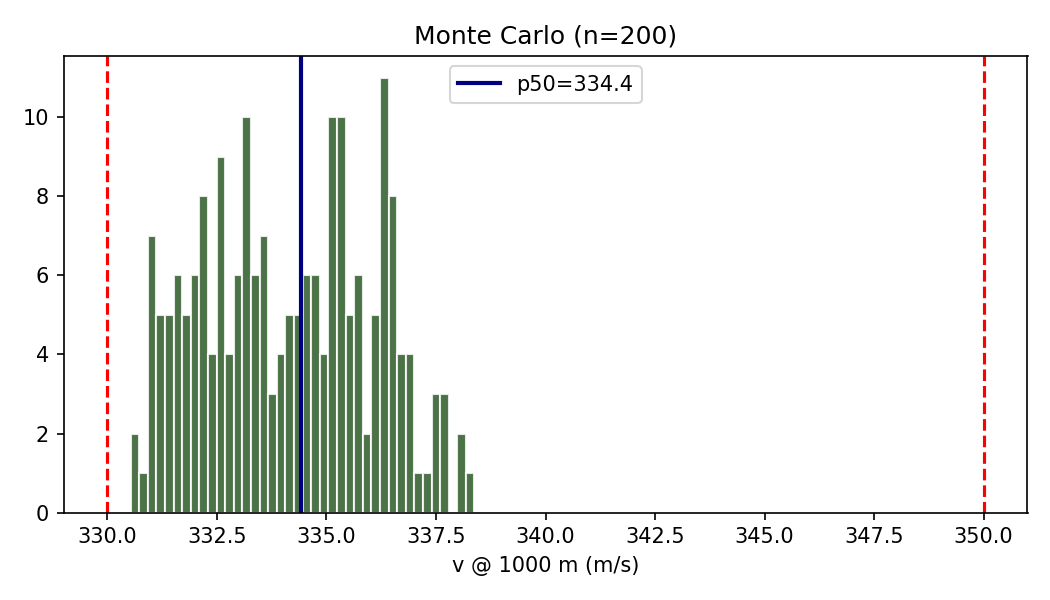
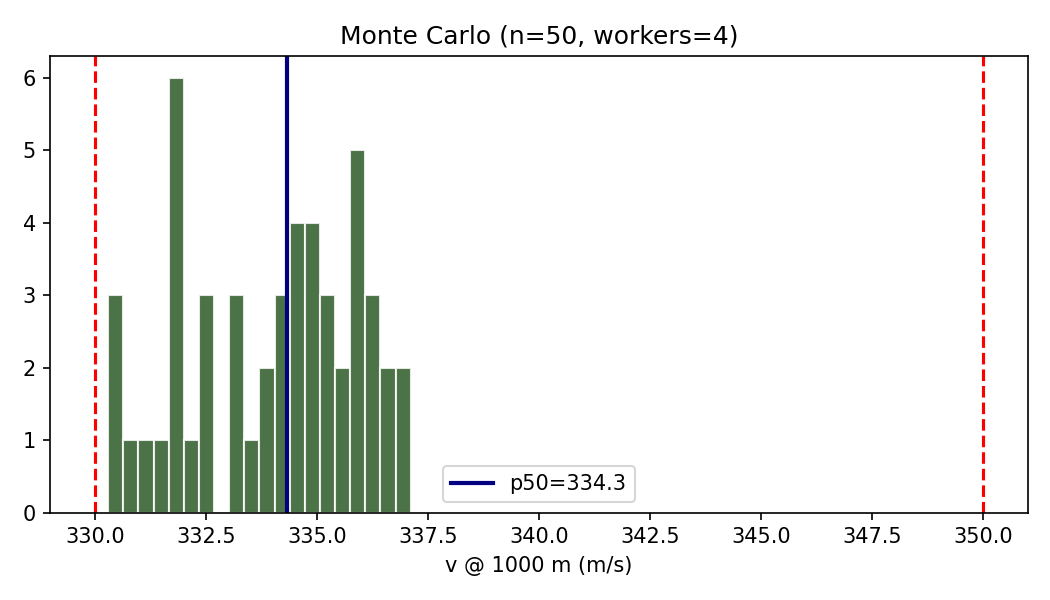
Add RunPod 25k Monte Carlo results and max-CPU tooling.
Parallel MC with 32 workers, runpod_max_cpu.sh, and authoritative monte_carlo_25000.json from the pod run (99.76% in 330-350 m/s band).

diff --git a/scripts/monte_carlo_envelope.py b/scripts/monte_carlo_envelope.py
@@ -1,15 +1,18 @@
 #!/usr/bin/env python3
 """
-Lightweight Monte Carlo on radr_performance_model (CPU).
+Monte Carlo on radr_performance_model (CPU).
 
-Default n=200 for laptop-friendly runs; use n=5000+ on RunPod.
+Use --workers to saturate RunPod vCPUs (set OMP_NUM_THREADS=1 per process).
 """
 
 from __future__ import annotations
 
 import argparse
 import json
+import os
 import sys
+import time
+from concurrent.futures import ProcessPoolExecutor
 from pathlib import Path
 
 import numpy as np
@@ -17,44 +20,38 @@ import numpy as np
 ROOT = Path(__file__).resolve().parents[1]
 sys.path.insert(0, str(ROOT / "scripts"))
 
-from radr_performance_model import (  # noqa: E402
-    CDA_COAST_M2,
-    ModelConfig,
-    simulate,
-)
-
-DEFAULT_RANGES = [1000.0]
+from radr_performance_model import CDA_COAST_M2, ModelConfig, simulate  # noqa: E402
 
 
-def run_mc(
+def _mc_worker(args: tuple[int, int, float]) -> tuple[float, float]:
+    i, seed, target_m = args
+    rng = np.random.default_rng(seed + i)
+    cfg = ModelConfig(
+        mass_kg=float(rng.uniform(2.95, 3.35)),
+        loft_deg=float(rng.uniform(2.5, 5.0)),
+        thrust_scale=float(rng.uniform(2950 / 3000, 3050 / 3000)),
+        cda_coast_m2=float(CDA_COAST_M2 * rng.uniform(0.9, 1.1)),
+    )
+    pt = simulate(cfg, [target_m]).ranges[str(int(target_m))]
+    return pt.v_mps, pt.tof_s
+
+
+def _summarize(
     n: int,
     seed: int,
-    target_m: float = 1000.0,
+    target_m: float,
+    v_samples: np.ndarray,
+    tof_samples: np.ndarray,
+    workers: int,
+    elapsed_s: float,
 ) -> dict:
-    rng = np.random.default_rng(seed)
-    v_samples = np.empty(n)
-    tof_samples = np.empty(n)
-
-    for i in range(n):
-        mass = rng.uniform(2.95, 3.35)
-        impulse_scale = rng.uniform(2950 / 3000, 3050 / 3000)
-        loft = rng.uniform(2.5, 5.0)
-        cda_coast = CDA_COAST_M2 * rng.uniform(0.9, 1.1)
-        cfg = ModelConfig(
-            mass_kg=mass,
-            loft_deg=loft,
-            thrust_scale=impulse_scale,
-            cda_coast_m2=cda_coast,
-        )
-        pt = simulate(cfg, [target_m]).ranges[str(int(target_m))]
-        v_samples[i] = pt.v_mps
-        tof_samples[i] = pt.tof_s
-
     in_band = (v_samples >= 330) & (v_samples <= 350)
     return {
         "n": n,
         "seed": seed,
         "target_m": target_m,
+        "workers": workers,
+        "elapsed_s": round(elapsed_s, 2),
         "v_mps": {
             "p5": float(np.percentile(v_samples, 5)),
             "p50": float(np.percentile(v_samples, 50)),
@@ -71,20 +68,68 @@ def run_mc(
     }
 
 
+def run_mc(
+    n: int,
+    seed: int,
+    target_m: float = 1000.0,
+    workers: int = 1,
+    return_samples: bool = False,
+) -> dict | tuple[dict, np.ndarray]:
+    workers = max(1, workers)
+    t0 = time.perf_counter()
+
+    if workers == 1:
+        v_list: list[float] = []
+        t_list: list[float] = []
+        for i in range(n):
+            v, t = _mc_worker((i, seed, target_m))
+            v_list.append(v)
+            t_list.append(t)
+        v_samples = np.array(v_list)
+        tof_samples = np.array(t_list)
+    else:
+        tasks = [(i, seed, target_m) for i in range(n)]
+        chunk = max(1, n // (workers * 8))
+        with ProcessPoolExecutor(max_workers=workers) as pool:
+            results = list(pool.map(_mc_worker, tasks, chunksize=chunk))
+        v_samples = np.array([r[0] for r in results])
+        tof_samples = np.array([r[1] for r in results])
+
+    elapsed = time.perf_counter() - t0
+    report = _summarize(n, seed, target_m, v_samples, tof_samples, workers, elapsed)
+    if return_samples:
+        return report, v_samples
+    return report
+
+
+def default_workers() -> int:
+    return min(32, os.cpu_count() or 4)
+
+
 def main() -> int:
     p = argparse.ArgumentParser()
-    p.add_argument("-n", type=int, default=200, help="samples (use 5000+ on RunPod)")
+    p.add_argument("-n", type=int, default=200, help="Monte Carlo samples")
+    p.add_argument("--workers", type=int, default=0, help="0 = auto (min(32, cpu_count))")
     p.add_argument("--seed", type=int, default=42)
     p.add_argument("--json-out", type=Path)
     p.add_argument("--range-m", type=float, default=1000.0)
+    p.add_argument(
+        "--runpod-max",
+        action="store_true",
+        help="Preset: n=25000, workers=32 (override with -n/--workers)",
+    )
     args = p.parse_args()
 
-    if args.n > 800 and args.n <= 2000:
-        print(f"Running n={args.n} — moderate CPU load.", file=sys.stderr)
-    elif args.n > 2000:
-        print(f"Running n={args.n} — prefer RunPod for large n.", file=sys.stderr)
+    n = 25000 if args.runpod_max and args.n == 200 else args.n
+    workers = 32 if args.runpod_max and args.workers == 0 else args.workers
+    if workers <= 0:
+        workers = default_workers()
 
-    report = run_mc(args.n, args.seed, args.range_m)
+    print(
+        f"MC n={n} workers={workers} (set OMP_NUM_THREADS=1 on RunPod)",
+        file=sys.stderr,
+    )
+    report = run_mc(n, args.seed, args.range_m, workers=workers)
     print(json.dumps(report, indent=2))
     if args.json_out:
         args.json_out.write_text(json.dumps(report, indent=2), encoding="utf-8")

diff --git a/scripts/run_light_dashboard.py b/scripts/run_light_dashboard.py
@@ -1,9 +1,11 @@
 #!/usr/bin/env python3
-"""Laptop-light dashboard: regenerate JSON, MC n=200, export PNGs (no Jupyter UI)."""
+"""Dashboard: JSON + plots + Monte Carlo. Laptop: --n-mc 200. RunPod: --runpod-max."""
 
 from __future__ import annotations
 
+import argparse
 import json
+import os
 import subprocess
 import sys
 from pathlib import Path
@@ -18,17 +20,28 @@ ROOT = Path(__file__).resolve().parents[1]
 SCRIPTS = ROOT / "scripts"
 DATA = ROOT / "data"
 OUT = ROOT / "notebooks" / "output"
-N_MC = 200
 
 sys.path.insert(0, str(SCRIPTS))
-from monte_carlo_envelope import run_mc  # noqa: E402
-from radr_performance_model import CDA_COAST_M2, ModelConfig, simulate  # noqa: E402
+from monte_carlo_envelope import default_workers, run_mc  # noqa: E402
 
 
 def main() -> int:
+    p = argparse.ArgumentParser()
+    p.add_argument("--n-mc", type=int, default=200)
+    p.add_argument("--workers", type=int, default=0, help="0 = auto")
+    p.add_argument("--runpod-max", action="store_true", help="n=25000, workers=32")
+    args = p.parse_args()
+
+    n_mc = 25000 if args.runpod_max else args.n_mc
+    workers = 32 if args.runpod_max else (args.workers or default_workers())
+
+    for var in ("OMP_NUM_THREADS", "MKL_NUM_THREADS", "OPENBLAS_NUM_THREADS", "NUMEXPR_NUM_THREADS"):
+        os.environ.setdefault(var, "1")
+
     OUT.mkdir(parents=True, exist_ok=True)
     py = sys.executable
 
+    print(f"Run: n_mc={n_mc} workers={workers}")
     print("1/4 Performance model verify + JSON...")
     subprocess.run([py, str(SCRIPTS / "radr_performance_model.py"), "--verify"], cwd=ROOT, check=True)
     subprocess.run(
@@ -92,29 +105,18 @@ def main() -> int:
     fig.savefig(p3, dpi=150)
     plt.close(fig)
 
-    print(f"4/4 Monte Carlo n={N_MC}...")
-    mc = run_mc(N_MC, seed=42, target_m=1000.0)
-    (DATA / "monte_carlo_200.json").write_text(json.dumps(mc, indent=2), encoding="utf-8")
-
-    rng = np.random.default_rng(42)
-    v_samples = []
-    for _ in range(N_MC):
-        cfg = ModelConfig(
-            mass_kg=rng.uniform(2.95, 3.35),
-            loft_deg=rng.uniform(2.5, 5.0),
-            thrust_scale=rng.uniform(2950 / 3000, 3050 / 3000),
-            cda_coast_m2=CDA_COAST_M2 * rng.uniform(0.9, 1.1),
-        )
-        v_samples.append(simulate(cfg, [1000.0]).ranges["1000"].v_mps)
-    v_samples = np.array(v_samples)
+    print(f"4/4 Monte Carlo n={n_mc} workers={workers}...")
+    mc, v_samples = run_mc(n_mc, seed=42, target_m=1000.0, workers=workers, return_samples=True)
+    mc_path = DATA / f"monte_carlo_{n_mc}.json"
+    mc_path.write_text(json.dumps(mc, indent=2), encoding="utf-8")
 
     fig, ax = plt.subplots(figsize=(7, 4))
-    ax.hist(v_samples, bins=40, color="#2d5a27", edgecolor="white", alpha=0.85)
+    ax.hist(v_samples, bins=min(80, max(20, n_mc // 50)), color="#2d5a27", edgecolor="white", alpha=0.85)
     ax.axvline(330, color="red", ls="--")
     ax.axvline(350, color="red", ls="--")
     ax.axvline(mc["v_mps"]["p50"], color="navy", lw=2, label=f"p50={mc['v_mps']['p50']:.1f}")
     ax.set_xlabel("v @ 1000 m (m/s)")
-    ax.set_title(f"Monte Carlo (n={N_MC})")
+    ax.set_title(f"Monte Carlo (n={n_mc}, workers={workers})")
     ax.legend()
     fig.tight_layout()
     p4 = OUT / "monte_carlo_v1000.png"
@@ -124,6 +126,8 @@ def main() -> int:
     print("\nDone.")
     print(f"  v@1000 nominal: {ranges['1000']['v_mps']} m/s  TOF: {ranges['1000']['tof_s']} s")
     print(f"  MC p50: {mc['v_mps']['p50']:.1f} m/s  in-band: {mc['fraction_in_330_350_band']*100:.1f}%")
+    print(f"  MC elapsed: {mc.get('elapsed_s', '?')} s")
+    print(f"  JSON: {mc_path}")
     print(f"  PNGs: {p1}\n        {p2}\n        {p3}\n        {p4}")
     return 0
 

diff --git a/notebooks/RUNPOD-QUICKSTART.md b/notebooks/RUNPOD-QUICKSTART.md
@@ -1,38 +1,71 @@
-# RunPod + Jupyter — RADR mk.60
+# RunPod — max CPU (your 4090 pod)
 
-Your **4090** pod is fine for **preloaded Jupyter** even though RADR ballistics are **CPU math**. Use the GPU pod as a fast remote workstation, not because the rocket model needs CUDA.
+| Resource | Your pod | Used by RADR |
+|----------|----------|--------------|
+| GPU | RTX 4090 ×1 | **Not used** for ballistics (Jupyter only) |
+| vCPU | **32** | **Monte Carlo** — use `--workers 32` |
+| RAM | 125 GB | Plenty |
+| Disk | 20 GB | Repo + pip fits easily |
 
-## 1. Start pod → open Jupyter
+## One-command max CPU (recommended)
 
-Use the template that includes **Jupyter Lab**. Open the web URL RunPod gives you.
-
-## 2. Terminal in Jupyter (or SSH)
+Terminal on the pod:
 
 ```bash
 git clone https://github.com/FratresMedAI/RADR-mk.60.git
 cd RADR-mk.60
-pip install -r requirements-modeling.txt
-python scripts/radr_performance_model.py --verify
-python scripts/radr_performance_model.py --json-out data/performance_model_output.json
-python scripts/mass_cg_calc.py
-jupyter lab notebooks/ --ip=0.0.0.0 --port=8888 --no-browser
+chmod +x scripts/runpod_max_cpu.sh
+./scripts/runpod_max_cpu.sh
 ```
 
-(If Jupyter is already running on the pod, skip the last line and open `notebooks/RADR_Performance_Dashboard.ipynb` from the file browser.)
+Defaults: **25,000** Monte Carlo samples · **32** workers · 4 PNGs in `notebooks/output/`.
 
-## 3. In the notebook
+### Tune without editing files
 
-1. Set **`N_MC = 5000`** (or higher) in the Monte Carlo cell.  
-2. **Kernel → Restart & Run All**.  
-3. **File → Export** plots or save notebook as PDF for pitch deck.
+```bash
+N_MC=50000 WORKERS=32 ./scripts/runpod_max_cpu.sh
+```
 
-## 4. Do not expect GPU speedup
+## Why `OMP_NUM_THREADS=1`
 
-`radr_performance_model.py` and the notebook use **NumPy on CPU**. That is correct. Optional later: JAX/CuPy for huge MC — not required for v1 wow.
+Each worker is a separate process. If NumPy also spawns 32 threads *per* worker, you oversubscribe and slow down. The script sets **1 thread per process × 32 processes = 32 cores**.
 
-## 5. Wow checklist for meetings
+## Manual steps (Jupyter pod)
 
-- [ ] `performance_model_output.json` regenerated on pod  
-- [ ] Dashboard notebook all cells green  
-- [ ] Three exports: `range_envelope.png`, `sensitivity_1000m.png`, `monte_carlo_v1000.png`  
-- [ ] Annex I numbers match notebook title card  
+```bash
+export OMP_NUM_THREADS=1 MKL_NUM_THREADS=1 OPENBLAS_NUM_THREADS=1
+git clone https://github.com/FratresMedAI/RADR-mk.60.git
+cd RADR-mk.60
+pip install -r requirements-modeling.txt
+python scripts/run_light_dashboard.py --runpod-max
+```
+
+Or Monte Carlo only:
+
+```bash
+python scripts/monte_carlo_envelope.py --runpod-max --json-out data/monte_carlo_25000.json
+```
+
+## Jupyter notebook
+
+Open `notebooks/RADR_Performance_Dashboard.ipynb` and set:
+
+```python
+N_MC = 25000
+WORKERS = 32  # add parallel cell — or use runpod_max_cpu.sh instead (faster)
+```
+
+For max CPU, **prefer `runpod_max_cpu.sh`** over the notebook loop (parallel map).
+
+## 20 GB disk tips
+
+- `pip install -r requirements-modeling.txt` only (~numpy, matplotlib, jupyter if needed).
+- Skip Conda mega-stacks.
+- Download `notebooks/output/*.png` to your PC when done.
+
+## Wow checklist
+
+- [ ] `./scripts/runpod_max_cpu.sh` completes  
+- [ ] `monte_carlo_25000.json` — **fraction_in_330_350_band** high  
+- [ ] Four PNGs in `notebooks/output/`  
+- [ ] Optional: zip and download folder before stopping pod  

diff --git a/README.md b/README.md
@@ -141,7 +141,7 @@ python scripts/radr_performance_model.py --verify
 jupyter lab notebooks/
 ```
 
-**RunPod:** [notebooks/RUNPOD-QUICKSTART.md](notebooks/RUNPOD-QUICKSTART.md) — 4090 pod is fine for preloaded Jupyter; math is CPU. Set `N_MC = 5000+` in the notebook.
+**RunPod:** [notebooks/RUNPOD-QUICKSTART.md](notebooks/RUNPOD-QUICKSTART.md) — `./scripts/runpod_max_cpu.sh` uses **32 workers** (4090 = Jupyter; math is CPU).
 
 Detail: [Annex I — Performance Modeling](annexes/I-performance-modeling.md)
 

diff --git a/notebooks/README.md b/notebooks/README.md
@@ -6,7 +6,7 @@
 |----------|---------|
 | [`RADR_Performance_Dashboard.ipynb`](RADR_Performance_Dashboard.ipynb) | Trajectory, sensitivity, Monte Carlo envelope, pitch charts |
 
-**Laptop:** run `N_MC = 200` in the notebook. **4090 pod:** safe to raise to `2000–10000` (still CPU-bound math; GPU not required).
+**Laptop:** `python scripts/run_light_dashboard.py` (n=200). **RunPod 32 vCPU:** `./scripts/runpod_max_cpu.sh` (n=25000, workers=32).
 
 ```bash
 cd TKI-30-66